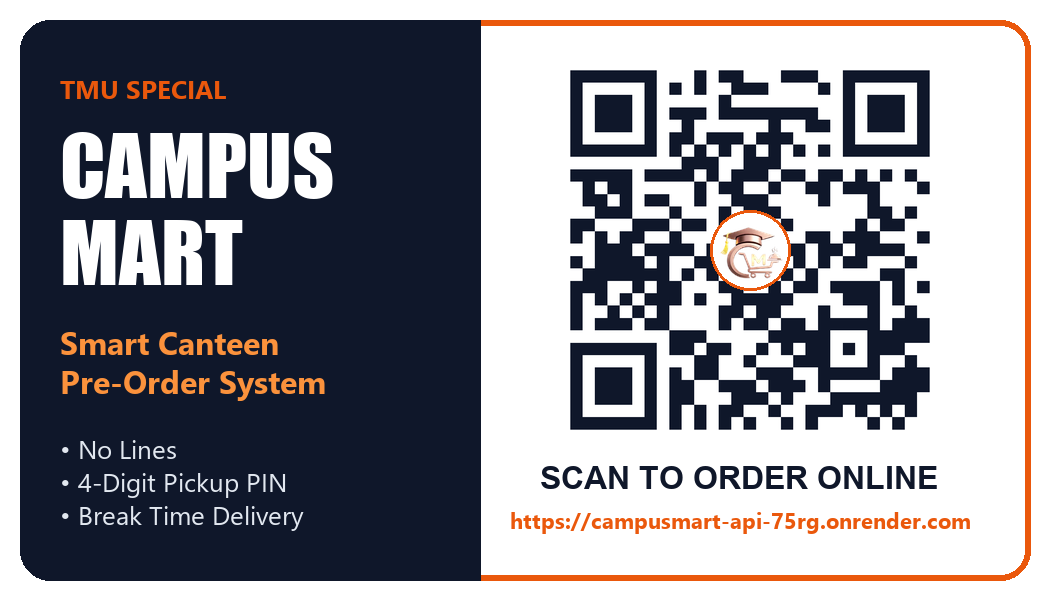
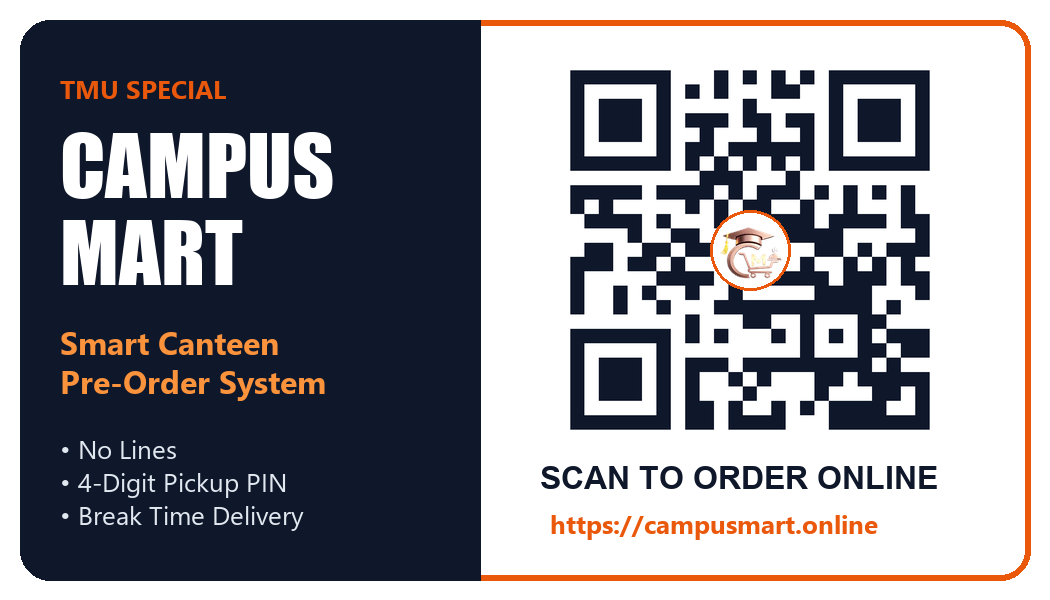
Update all QR codes, stickers, marketing kit, and API endpoints to https://campusmart.online

Changed region(s): [[0.5181, 0.12, 0.8838, 0.72], [0.4876, 0.84, 0.9143, 0.9]]

diff --git a/marketing_kit.html b/marketing_kit.html
@@ -447,7 +447,7 @@
 
                 <div class="poster-qr-section">
                     <div class="qr-card">
-                        <img src="https://api.qrserver.com/v1/create-qr-code/?size=250x250&data=https://campusmart-api-75rg.onrender.com&color=0f172a&bgcolor=ffffff" alt="Campus Mart QR Code">
+                        <img src="https://api.qrserver.com/v1/create-qr-code/?size=250x250&data=https://campusmart.online&color=0f172a&bgcolor=ffffff" alt="Campus Mart QR Code">
                         <div class="qr-caption">Scan with any Camera / UPI App</div>
                     </div>
 
@@ -499,7 +499,7 @@
             <div class="table-sticker">
                 <div class="sticker-badge-strip"></div>
                 <div class="sticker-qr">
-                    <img src="https://api.qrserver.com/v1/create-qr-code/?size=180x180&data=https://campusmart-api-75rg.onrender.com&color=0f172a" alt="QR">
+                    <img src="https://api.qrserver.com/v1/create-qr-code/?size=180x180&data=https://campusmart.online&color=0f172a" alt="QR">
                 </div>
                 <div class="sticker-info">
                     <div class="sticker-brand">Campus<span>Mart</span></div>
@@ -512,7 +512,7 @@
             <div class="table-sticker">
                 <div class="sticker-badge-strip"></div>
                 <div class="sticker-qr">
-                    <img src="https://api.qrserver.com/v1/create-qr-code/?size=180x180&data=https://campusmart-api-75rg.onrender.com&color=0f172a" alt="QR">
+                    <img src="https://api.qrserver.com/v1/create-qr-code/?size=180x180&data=https://campusmart.online&color=0f172a" alt="QR">
                 </div>
                 <div class="sticker-info">
                     <div class="sticker-brand">Campus<span>Mart</span></div>
@@ -525,7 +525,7 @@
             <div class="table-sticker">
                 <div class="sticker-badge-strip"></div>
                 <div class="sticker-qr">
-                    <img src="https://api.qrserver.com/v1/create-qr-code/?size=180x180&data=https://campusmart-api-75rg.onrender.com&color=0f172a" alt="QR">
+                    <img src="https://api.qrserver.com/v1/create-qr-code/?size=180x180&data=https://campusmart.online&color=0f172a" alt="QR">
                 </div>
                 <div class="sticker-info">
                     <div class="sticker-brand">Campus<span>Mart</span></div>
@@ -538,7 +538,7 @@
             <div class="table-sticker">
                 <div class="sticker-badge-strip"></div>
                 <div class="sticker-qr">
-                    <img src="https://api.qrserver.com/v1/create-qr-code/?size=180x180&data=https://campusmart-api-75rg.onrender.com&color=0f172a" alt="QR">
+                    <img src="https://api.qrserver.com/v1/create-qr-code/?size=180x180&data=https://campusmart.online&color=0f172a" alt="QR">
                 </div>
                 <div class="sticker-info">
                     <div class="sticker-brand">Campus<span>Mart</span></div>
@@ -551,7 +551,7 @@
             <div class="table-sticker">
                 <div class="sticker-badge-strip"></div>
                 <div class="sticker-qr">
-                    <img src="https://api.qrserver.com/v1/create-qr-code/?size=180x180&data=https://campusmart-api-75rg.onrender.com&color=0f172a" alt="QR">
+                    <img src="https://api.qrserver.com/v1/create-qr-code/?size=180x180&data=https://campusmart.online&color=0f172a" alt="QR">
                 </div>
                 <div class="sticker-info">
                     <div class="sticker-brand">Campus<span>Mart</span></div>
@@ -564,7 +564,7 @@
             <div class="table-sticker">
                 <div class="sticker-badge-strip"></div>
                 <div class="sticker-qr">
-                    <img src="https://api.qrserver.com/v1/create-qr-code/?size=180x180&data=https://campusmart-api-75rg.onrender.com&color=0f172a" alt="QR">
+                    <img src="https://api.qrserver.com/v1/create-qr-code/?size=180x180&data=https://campusmart.online&color=0f172a" alt="QR">
                 </div>
                 <div class="sticker-info">
                     <div class="sticker-brand">Campus<span>Mart</span></div>

diff --git a/stikers/print_all.html b/stikers/print_all.html
@@ -219,7 +219,7 @@
                     Campus Mart <span style="color: var(--primary);">Marketing Kit &amp; Stickers</span>
                 </h2>
                 <div style="font-size: 0.76rem; color: #64748b; font-weight: 600;">
-                    Target QR: <strong style="color: #ea580c;">https://campusmart-api-75rg.onrender.com</strong>
+                    Target QR: <strong style="color: #ea580c;">https://campusmart.online</strong>
                 </div>
             </div>
         </div>
@@ -228,7 +228,7 @@
             <button onclick="window.print()" class="btn-action btn-primary" title="Print Current View (A4 Sheet)">
                 <i class="fa-solid fa-print"></i> 1-Click Print (Ctrl + P)
             </button>
-            <a href="https://api.whatsapp.com/send?text=%F0%9F%8D%94%20%2ATMU%20CAMPUS%20MART%20-%20ONLINE%20PRE-ORDER%2A%0ALine%20me%20mat%20lado%2C%20apne%20phone%20se%20order%20karo%20aur%20break%20time%20par%20fresh%20khana%20pickup%20karo%21%0A%F0%9F%91%89%20https%3A%2F%2Fcampusmart-api-75rg.onrender.com" target="_blank" class="btn-action btn-success" title="Share on WhatsApp">
+            <a href="https://api.whatsapp.com/send?text=%F0%9F%8D%94%20%2ATMU%20CAMPUS%20MART%20-%20ONLINE%20PRE-ORDER%2A%0ALine%20me%20mat%20lado%2C%20apne%20phone%20se%20order%20karo%20aur%20break%20time%20par%20fresh%20khana%20pickup%20karo%21%0A%F0%9F%91%89%20https%3A%2F%2Fcampusmart.online" target="_blank" class="btn-action btn-success" title="Share on WhatsApp">
                 <i class="fa-brands fa-whatsapp"></i> Share on WhatsApp
             </a>
         </div>

diff --git a/js/api.js b/js/api.js
@@ -4,9 +4,9 @@
 // Description: Centralized REST API client for MongoDB Backend
 // ==========================================================================
 
-const API_BASE = (window.location.hostname === 'localhost' || window.location.hostname === '127.0.0.1')
+const API_BASE = (window.location.protocol && window.location.protocol.startsWith('http'))
     ? '' 
-    : 'https://campusmart-api-75rg.onrender.com';
+    : 'https://campusmart.online';
 
 const api = {
     // 1. Auth & Mobile OTP Methods
